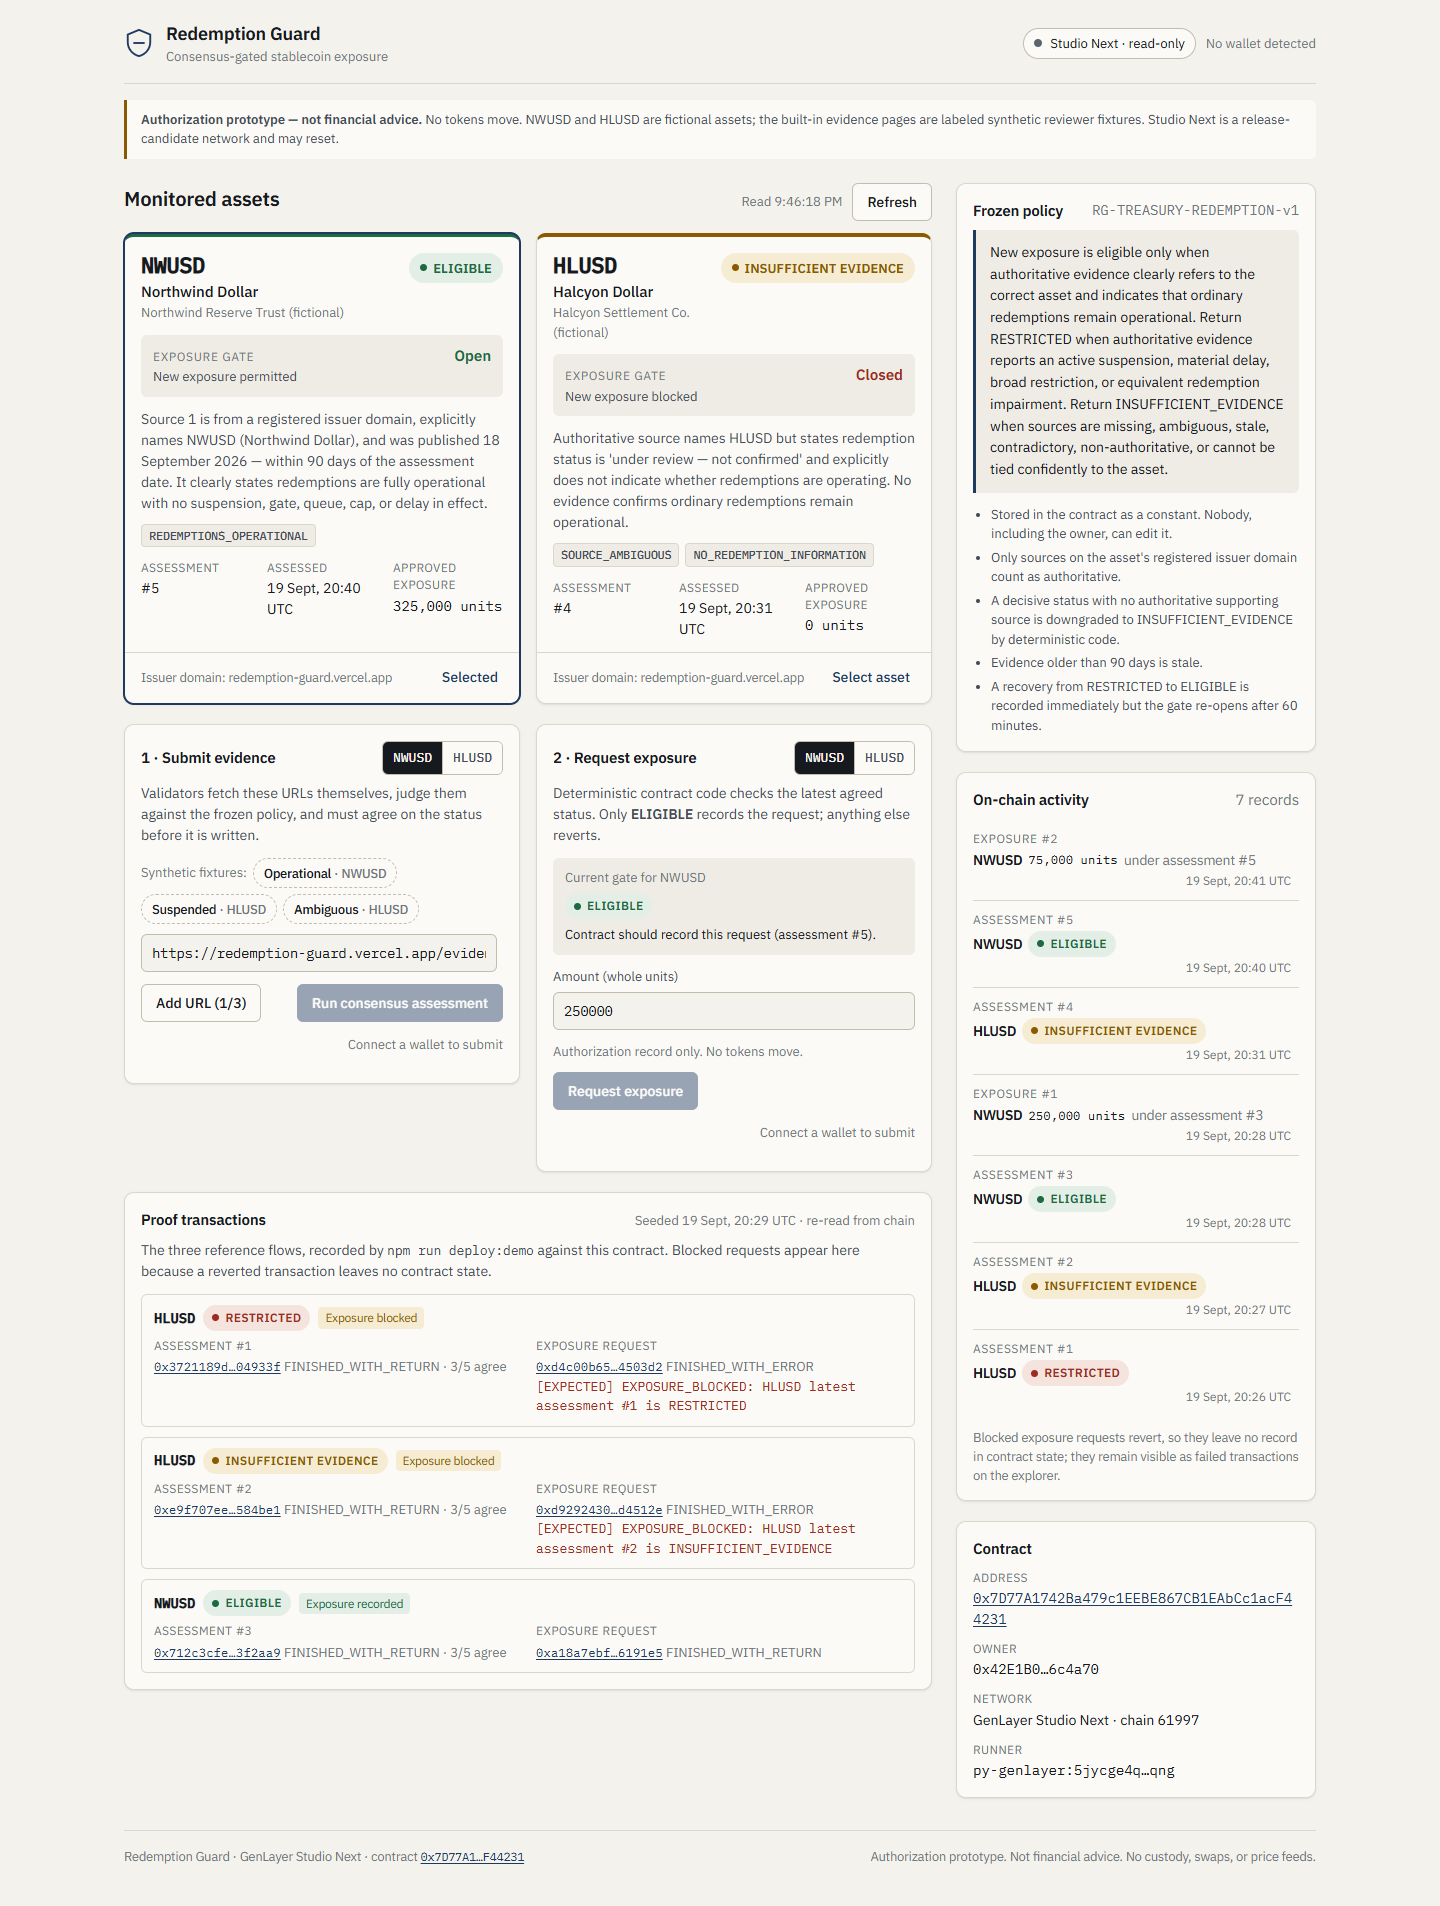
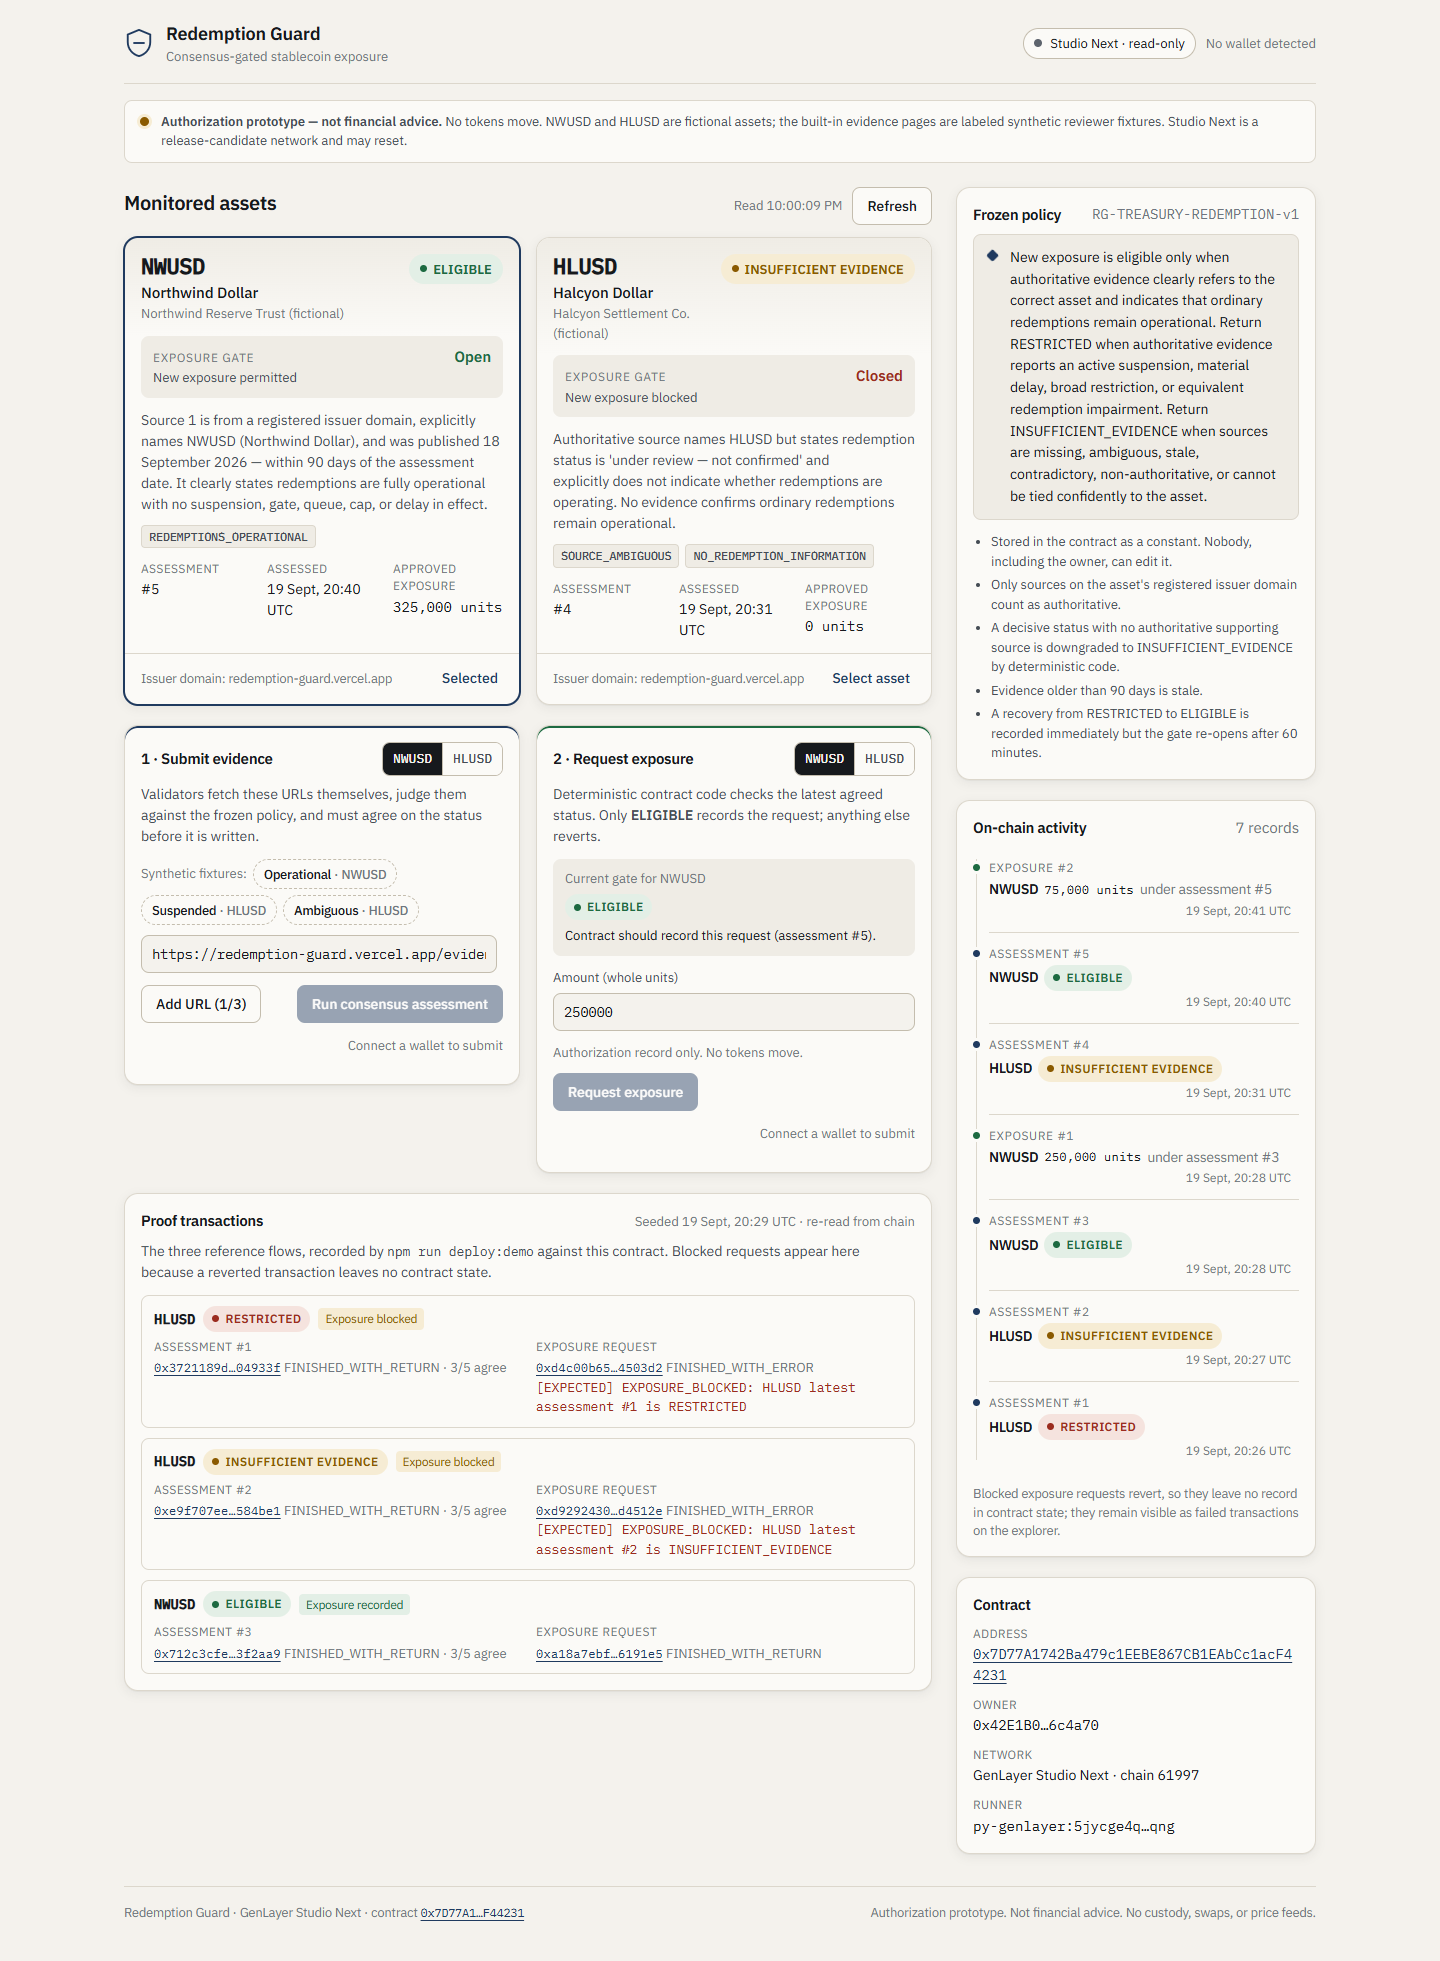
Polish dashboard visual hierarchy

diff --git a/frontend/app/globals.css b/frontend/app/globals.css
@@ -21,9 +21,10 @@
   --none: #5d646d;
   --none-bg: #e9e7e1;
 
-  --radius: 10px;
-  --radius-sm: 6px;
-  --shadow: 0 1px 0 rgba(22, 25, 29, 0.04), 0 1px 3px rgba(22, 25, 29, 0.06);
+  --radius: 14px;
+  --radius-sm: 8px;
+  --shadow: 0 1px 0 rgba(22, 25, 29, 0.04), 0 3px 10px rgba(22, 25, 29, 0.07);
+  --shadow-hover: 0 2px 0 rgba(22, 25, 29, 0.04), 0 8px 18px rgba(22, 25, 29, 0.1);
   --sans: var(--font-sans), "IBM Plex Sans", system-ui, sans-serif;
   --mono: var(--font-mono), "IBM Plex Mono", ui-monospace, monospace;
   color-scheme: light;
@@ -57,6 +58,7 @@
 }
 
 * { box-sizing: border-box; }
+::selection { background: var(--accent); color: var(--accent-ink); }
 html, body { margin: 0; padding: 0; }
 body {
   background: var(--bg);
@@ -64,9 +66,9 @@ body {
   font: 15px/1.5 var(--sans);
   -webkit-font-smoothing: antialiased;
 }
-a { color: var(--accent); text-underline-offset: 2px; }
+a { color: var(--accent); text-underline-offset: 3px; text-decoration-thickness: 1px; }
 code, .mono { font-family: var(--mono); font-size: 0.92em; }
-h1, h2 { margin: 0; letter-spacing: -0.01em; }
+h1, h2 { margin: 0; letter-spacing: -0.02em; text-wrap: balance; }
 h1 { font-size: 20px; font-weight: 600; }
 h2 { font-size: 15px; font-weight: 600; }
 :focus-visible { outline: 2px solid var(--focus); outline-offset: 2px; }
@@ -93,7 +95,8 @@ h2 { font-size: 15px; font-weight: 600; }
 .netbadge--warn .netbadge__dot { background: var(--insufficient); }
 .wallet { padding: 6px 10px; border-radius: var(--radius-sm); background: var(--surface-2); font-size: 13px; }
 
-.disclosure { margin: 16px 0 0; padding: 10px 14px; border-left: 3px solid var(--insufficient); background: var(--surface); font-size: 13px; color: var(--ink-2); border-radius: 0 var(--radius-sm) var(--radius-sm) 0; }
+.disclosure { position: relative; margin: 16px 0 0; padding: 11px 14px 11px 36px; border: 1px solid var(--rule); background: var(--surface); font-size: 13px; color: var(--ink-2); border-radius: var(--radius-sm); }
+.disclosure::before { content: ""; position: absolute; left: 15px; top: 16px; width: 9px; height: 9px; border-radius: 50%; background: var(--insufficient); box-shadow: 0 0 0 3px var(--insufficient-bg); }
 .alert { margin-top: 12px; padding: 10px 14px; border-radius: var(--radius-sm); font-size: 14px; }
 .alert--warn { background: var(--insufficient-bg); color: var(--insufficient); }
 .alert--error { background: var(--restricted-bg); color: var(--restricted); }
@@ -105,15 +108,16 @@ h2 { font-size: 15px; font-weight: 600; }
 .section-head__meta { display: flex; align-items: center; gap: 10px; }
 
 /* buttons */
-.btn { font: 500 14px/1 var(--sans); border-radius: var(--radius-sm); padding: 10px 14px; border: 1px solid transparent; cursor: pointer; background: none; color: var(--ink); min-height: 38px; }
+.btn { font: 500 14px/1 var(--sans); border-radius: var(--radius-sm); padding: 10px 14px; border: 1px solid transparent; cursor: pointer; background: none; color: var(--ink); min-height: 38px; transition: background-color 160ms ease, border-color 160ms ease, box-shadow 160ms ease, transform 160ms ease; }
 .btn:disabled { opacity: 0.45; cursor: not-allowed; }
 .btn--primary { background: var(--accent); color: var(--accent-ink); }
-.btn--primary:hover:not(:disabled) { filter: brightness(1.12); }
+.btn--primary:hover:not(:disabled) { background: #294c78; box-shadow: 0 4px 10px rgba(31, 58, 95, 0.2); transform: translateY(-1px); }
 .btn--warn { background: var(--insufficient); color: var(--warning-ink); }
 .btn--ghost { border-color: var(--rule-strong); background: var(--surface); }
-.btn--ghost:hover:not(:disabled) { background: var(--surface-2); }
+.btn--ghost:hover:not(:disabled) { background: var(--surface-2); border-color: var(--accent); }
 .btn--quiet { color: var(--accent); padding: 6px 8px; min-height: 32px; }
 .btn--icon { padding: 0; width: 38px; font-size: 18px; }
+.btn:active:not(:disabled) { transform: translateY(0); }
 
 /* status badge */
 .badge { display: inline-flex; align-items: center; gap: 6px; font-weight: 600; font-size: 12px; letter-spacing: 0.03em; text-transform: uppercase; padding: 4px 9px; border-radius: 999px; white-space: nowrap; }
@@ -126,15 +130,12 @@ h2 { font-size: 15px; font-weight: 600; }
 
 /* asset cards */
 .assets { display: grid; grid-template-columns: repeat(2, minmax(0, 1fr)); gap: 16px; }
-.asset { background: var(--surface); border: 1px solid var(--rule); border-radius: var(--radius); box-shadow: var(--shadow); display: flex; flex-direction: column; border-top: 4px solid var(--none); min-height: 280px; }
-.asset--eligible { border-top-color: var(--eligible); }
-.asset--restricted { border-top-color: var(--restricted); }
-.asset--insufficient { border-top-color: var(--insufficient); }
+.asset { background: var(--surface); border: 1px solid var(--rule); border-radius: var(--radius); box-shadow: var(--shadow); display: flex; flex-direction: column; min-height: 280px; overflow: hidden; }
 .asset--selected { outline: 2px solid var(--accent); outline-offset: -1px; }
 .asset--skeleton { background: linear-gradient(90deg, var(--surface) 0%, var(--surface-2) 50%, var(--surface) 100%); background-size: 200% 100%; animation: shimmer 1.4s linear infinite; }
 @keyframes shimmer { to { background-position: -200% 0; } }
 @media (prefers-reduced-motion: reduce) { .asset--skeleton { animation: none; } }
-.asset__head { display: flex; justify-content: space-between; align-items: flex-start; gap: 12px; padding: 16px 16px 12px; }
+.asset__head { display: flex; justify-content: space-between; align-items: flex-start; gap: 12px; padding: 16px 16px 12px; background: linear-gradient(180deg, var(--surface-2), var(--surface)); }
 .asset__ticker { font: 600 22px/1.1 var(--mono); letter-spacing: -0.02em; }
 .asset__name { font-weight: 500; margin-top: 4px; }
 .asset__issuer { color: var(--ink-3); font-size: 13px; }
@@ -146,7 +147,7 @@ h2 { font-size: 15px; font-weight: 600; }
 .gate__note { grid-column: 1 / -1; font-size: 13px; color: var(--ink-2); }
 .asset__body { padding: 12px 16px; flex: 1; }
 .asset__body--empty { color: var(--ink-3); font-size: 14px; }
-.asset__reasoning { margin: 0 0 10px; font-size: 14px; color: var(--ink-2); }
+.asset__reasoning { margin: 0 0 10px; font-size: 14px; color: var(--ink-2); text-wrap: pretty; }
 .asset__foot { display: flex; justify-content: space-between; align-items: center; gap: 8px; padding: 8px 12px 10px 16px; border-top: 1px solid var(--rule); font-size: 12.5px; }
 
 .codes { display: flex; flex-wrap: wrap; gap: 6px; list-style: none; padding: 0; margin: 0 0 12px; }
@@ -160,6 +161,8 @@ h2 { font-size: 15px; font-weight: 600; }
 
 /* panels */
 .panel { background: var(--surface); border: 1px solid var(--rule); border-radius: var(--radius); padding: 16px; box-shadow: var(--shadow); min-width: 0; }
+.panel--action { position: relative; box-shadow: var(--shadow), inset 0 2px 0 var(--accent); }
+.panel--exposure { box-shadow: var(--shadow), inset 0 2px 0 var(--eligible); }
 .panel__head { display: flex; justify-content: space-between; align-items: center; gap: 12px; margin-bottom: 8px; flex-wrap: wrap; }
 .panel__lede { margin: 0 0 12px; color: var(--ink-2); font-size: 14px; }
 .panel__foot { display: flex; justify-content: space-between; align-items: center; gap: 10px; margin-top: 12px; flex-wrap: wrap; }
@@ -176,7 +179,8 @@ h2 { font-size: 15px; font-weight: 600; }
 
 .urls { display: flex; flex-direction: column; gap: 8px; }
 .urlrow { display: grid; grid-template-columns: 1fr auto; gap: 6px; }
-.input { width: 100%; font-size: 13.5px; padding: 9px 10px; border: 1px solid var(--rule-strong); border-radius: var(--radius-sm); background: var(--bg); color: var(--ink); min-height: 38px; }
+.input { width: 100%; font-size: 13.5px; padding: 9px 10px; border: 1px solid var(--rule-strong); border-radius: var(--radius-sm); background: var(--bg); color: var(--ink); min-height: 38px; caret-color: var(--accent); }
+.input::selection { background: var(--accent); color: var(--accent-ink); }
 .input--error { border-color: var(--restricted); }
 .fielderror { grid-column: 1 / -1; color: var(--restricted); font-size: 12.5px; }
 .field { display: flex; flex-direction: column; gap: 6px; margin-top: 12px; }
@@ -184,10 +188,10 @@ h2 { font-size: 15px; font-weight: 600; }
 .gatepreview { display: flex; flex-direction: column; gap: 6px; align-items: flex-start; padding: 10px 12px; background: var(--surface-2); border-radius: var(--radius-sm); }
 
 /* outcome */
-.outcome { border-left: 4px solid var(--none); }
-.outcome--eligible { border-left-color: var(--eligible); }
-.outcome--restricted { border-left-color: var(--restricted); }
-.outcome--insufficient { border-left-color: var(--insufficient); }
+.outcome { border-color: var(--rule-strong); }
+.outcome--eligible { box-shadow: var(--shadow), inset 0 2px 0 var(--eligible); }
+.outcome--restricted { box-shadow: var(--shadow), inset 0 2px 0 var(--restricted); }
+.outcome--insufficient { box-shadow: var(--shadow), inset 0 2px 0 var(--insufficient); }
 .outcome__reasoning { margin: 4px 0 12px; color: var(--ink-2); }
 .outcome__cooldown { margin: -4px 0 12px; color: var(--insufficient); font-weight: 600; }
 .evidence { list-style: none; padding: 0; margin: 0; display: flex; flex-direction: column; gap: 8px; }
@@ -209,17 +213,33 @@ h2 { font-size: 15px; font-weight: 600; }
 .proof__txs dd { margin: 2px 0 0; font-size: 13.5px; }
 
 /* side */
-.policy { margin: 0; padding: 12px 14px; border-left: 3px solid var(--accent); background: var(--surface-2); font-size: 14px; line-height: 1.55; border-radius: 0 var(--radius-sm) var(--radius-sm) 0; }
+.policy { position: relative; margin: 0; padding: 12px 14px 12px 36px; border: 1px solid var(--rule); background: var(--surface-2); font-size: 14px; line-height: 1.55; border-radius: var(--radius-sm); }
+.policy::before { content: ""; position: absolute; left: 14px; top: 16px; width: 9px; height: 9px; border-radius: 2px; background: var(--accent); transform: rotate(45deg); }
 .policy__rules { margin: 12px 0 0; padding-left: 18px; font-size: 13px; color: var(--ink-2); display: flex; flex-direction: column; gap: 4px; }
-.activity { list-style: none; margin: 0; padding: 0; }
-.activity__row { display: grid; grid-template-columns: 1fr auto; gap: 2px 8px; padding: 10px 0; border-top: 1px solid var(--rule); font-size: 13.5px; }
-.activity__row:first-child { border-top: 0; }
+.activity { position: relative; list-style: none; margin: 0; padding: 0 0 0 16px; }
+.activity::before { content: ""; position: absolute; left: 3px; top: 12px; bottom: 12px; width: 1px; background: var(--rule); }
+.activity__row { position: relative; display: grid; grid-template-columns: 1fr auto; gap: 2px 8px; padding: 12px 0; font-size: 13.5px; }
+.activity__row::before { content: ""; position: absolute; left: -16px; top: 17px; width: 7px; height: 7px; border-radius: 50%; background: var(--none); box-shadow: 0 0 0 3px var(--surface); }
+.activity__row--assessment::before { background: var(--accent); }
+.activity__row--exposure::before { background: var(--eligible); }
+.activity__row + .activity__row { border-top: 1px solid var(--rule); }
 .activity__kind { font-size: 12px; color: var(--ink-3); text-transform: uppercase; letter-spacing: 0.05em; }
-.activity__when { font-size: 12px; color: var(--ink-3); text-align: right; }
+.activity__when { font-size: 12px; color: var(--ink-3); text-align: right; font-variant-numeric: tabular-nums; }
 .activity__what { grid-column: 1 / -1; display: flex; flex-wrap: wrap; gap: 6px; align-items: center; }
 
 .faucet { display: flex; align-items: center; gap: 12px; flex-wrap: wrap; }
 .pagefoot { display: flex; justify-content: space-between; gap: 12px; flex-wrap: wrap; margin-top: 32px; padding-top: 16px; border-top: 1px solid var(--rule); color: var(--ink-3); font-size: 12.5px; }
+
+.facts dd, .proof__txs dd { font-variant-numeric: tabular-nums; }
+
+@media (prefers-color-scheme: dark) {
+  :root:not([data-theme="light"]) { scrollbar-color: var(--rule-strong) var(--bg); }
+}
+@media (prefers-reduced-motion: no-preference) {
+  .asset, .proof { transition: transform 180ms ease, box-shadow 180ms ease; }
+  .asset:hover, .proof:hover { transform: translateY(-2px); box-shadow: var(--shadow-hover); }
+  .chip, .segmented__item { transition: background-color 160ms ease, border-color 160ms ease, color 160ms ease; }
+}
 
 /* transaction dialog (Transaction Kit inside) */
 .txdialog { width: min(560px, calc(100vw - 32px)); max-height: calc(100vh - 48px); border: 1px solid var(--rule-strong); border-radius: var(--radius); padding: 16px; background: var(--surface); color: var(--ink); }
@@ -240,6 +260,7 @@ h2 { font-size: 15px; font-weight: 600; }
 @media (max-width: 1080px) {
   .grid { grid-template-columns: minmax(0, 1fr); }
   .actions { grid-template-columns: minmax(0, 1fr); }
+  .col--side { display: grid; grid-template-columns: repeat(2, minmax(0, 1fr)); align-items: start; }
 }
 @media (max-width: 680px) {
   .shell { padding: 0 16px 32px; }
@@ -249,6 +270,7 @@ h2 { font-size: 15px; font-weight: 600; }
   .facts { grid-template-columns: repeat(2, minmax(0, 1fr)); }
   .facts--stack, .proof__txs { grid-template-columns: minmax(0, 1fr); }
   .section-head { flex-direction: column; align-items: flex-start; }
+  .col--side { display: flex; }
   .panel__foot { flex-direction: column-reverse; align-items: stretch; }
   .panel__foot .btn { width: 100%; }
 }

diff --git a/frontend/components/parts.tsx b/frontend/components/parts.tsx
@@ -229,7 +229,7 @@ export function Activity({ assessments, exposures }: { assessments: Assessment[]
         <ol className="activity">
           {items.slice(0, 12).map((row) =>
             row.kind === "assessment" ? (
-              <li key={`a${row.item.id}`} className="activity__row">
+              <li key={`a${row.item.id}`} className="activity__row activity__row--assessment">
                 <span className="activity__kind">Assessment #{row.item.id}</span>
                 <span className="activity__what">
                   <strong>{row.item.asset_id}</strong> <StatusBadge status={row.item.status} />
@@ -237,7 +237,7 @@ export function Activity({ assessments, exposures }: { assessments: Assessment[]
                 <span className="activity__when">{when(row.at)}</span>
               </li>
             ) : (
-              <li key={`e${row.item.id}`} className="activity__row">
+              <li key={`e${row.item.id}`} className="activity__row activity__row--exposure">
                 <span className="activity__kind">Exposure #{row.item.id}</span>
                 <span className="activity__what">
                   <strong>{row.item.asset_id}</strong>{" "}

diff --git a/frontend/components/Dashboard.tsx b/frontend/components/Dashboard.tsx
@@ -303,7 +303,7 @@ export default function Dashboard() {
           </section>
 
           <div className="actions">
-            <section className="panel" aria-labelledby="assess-title">
+            <section className="panel panel--action panel--assess" aria-labelledby="assess-title">
               <div className="panel__head">
                 <h2 id="assess-title">1 · Submit evidence</h2>
                 <AssetPicker
@@ -386,7 +386,7 @@ export default function Dashboard() {
               {assessDisabledReason && <p className="small muted right">{assessDisabledReason}</p>}
             </section>
 
-            <section className="panel" aria-labelledby="exposure-title">
+            <section className="panel panel--action panel--exposure" aria-labelledby="exposure-title">
               <div className="panel__head">
                 <h2 id="exposure-title">2 · Request exposure</h2>
                 <AssetPicker
